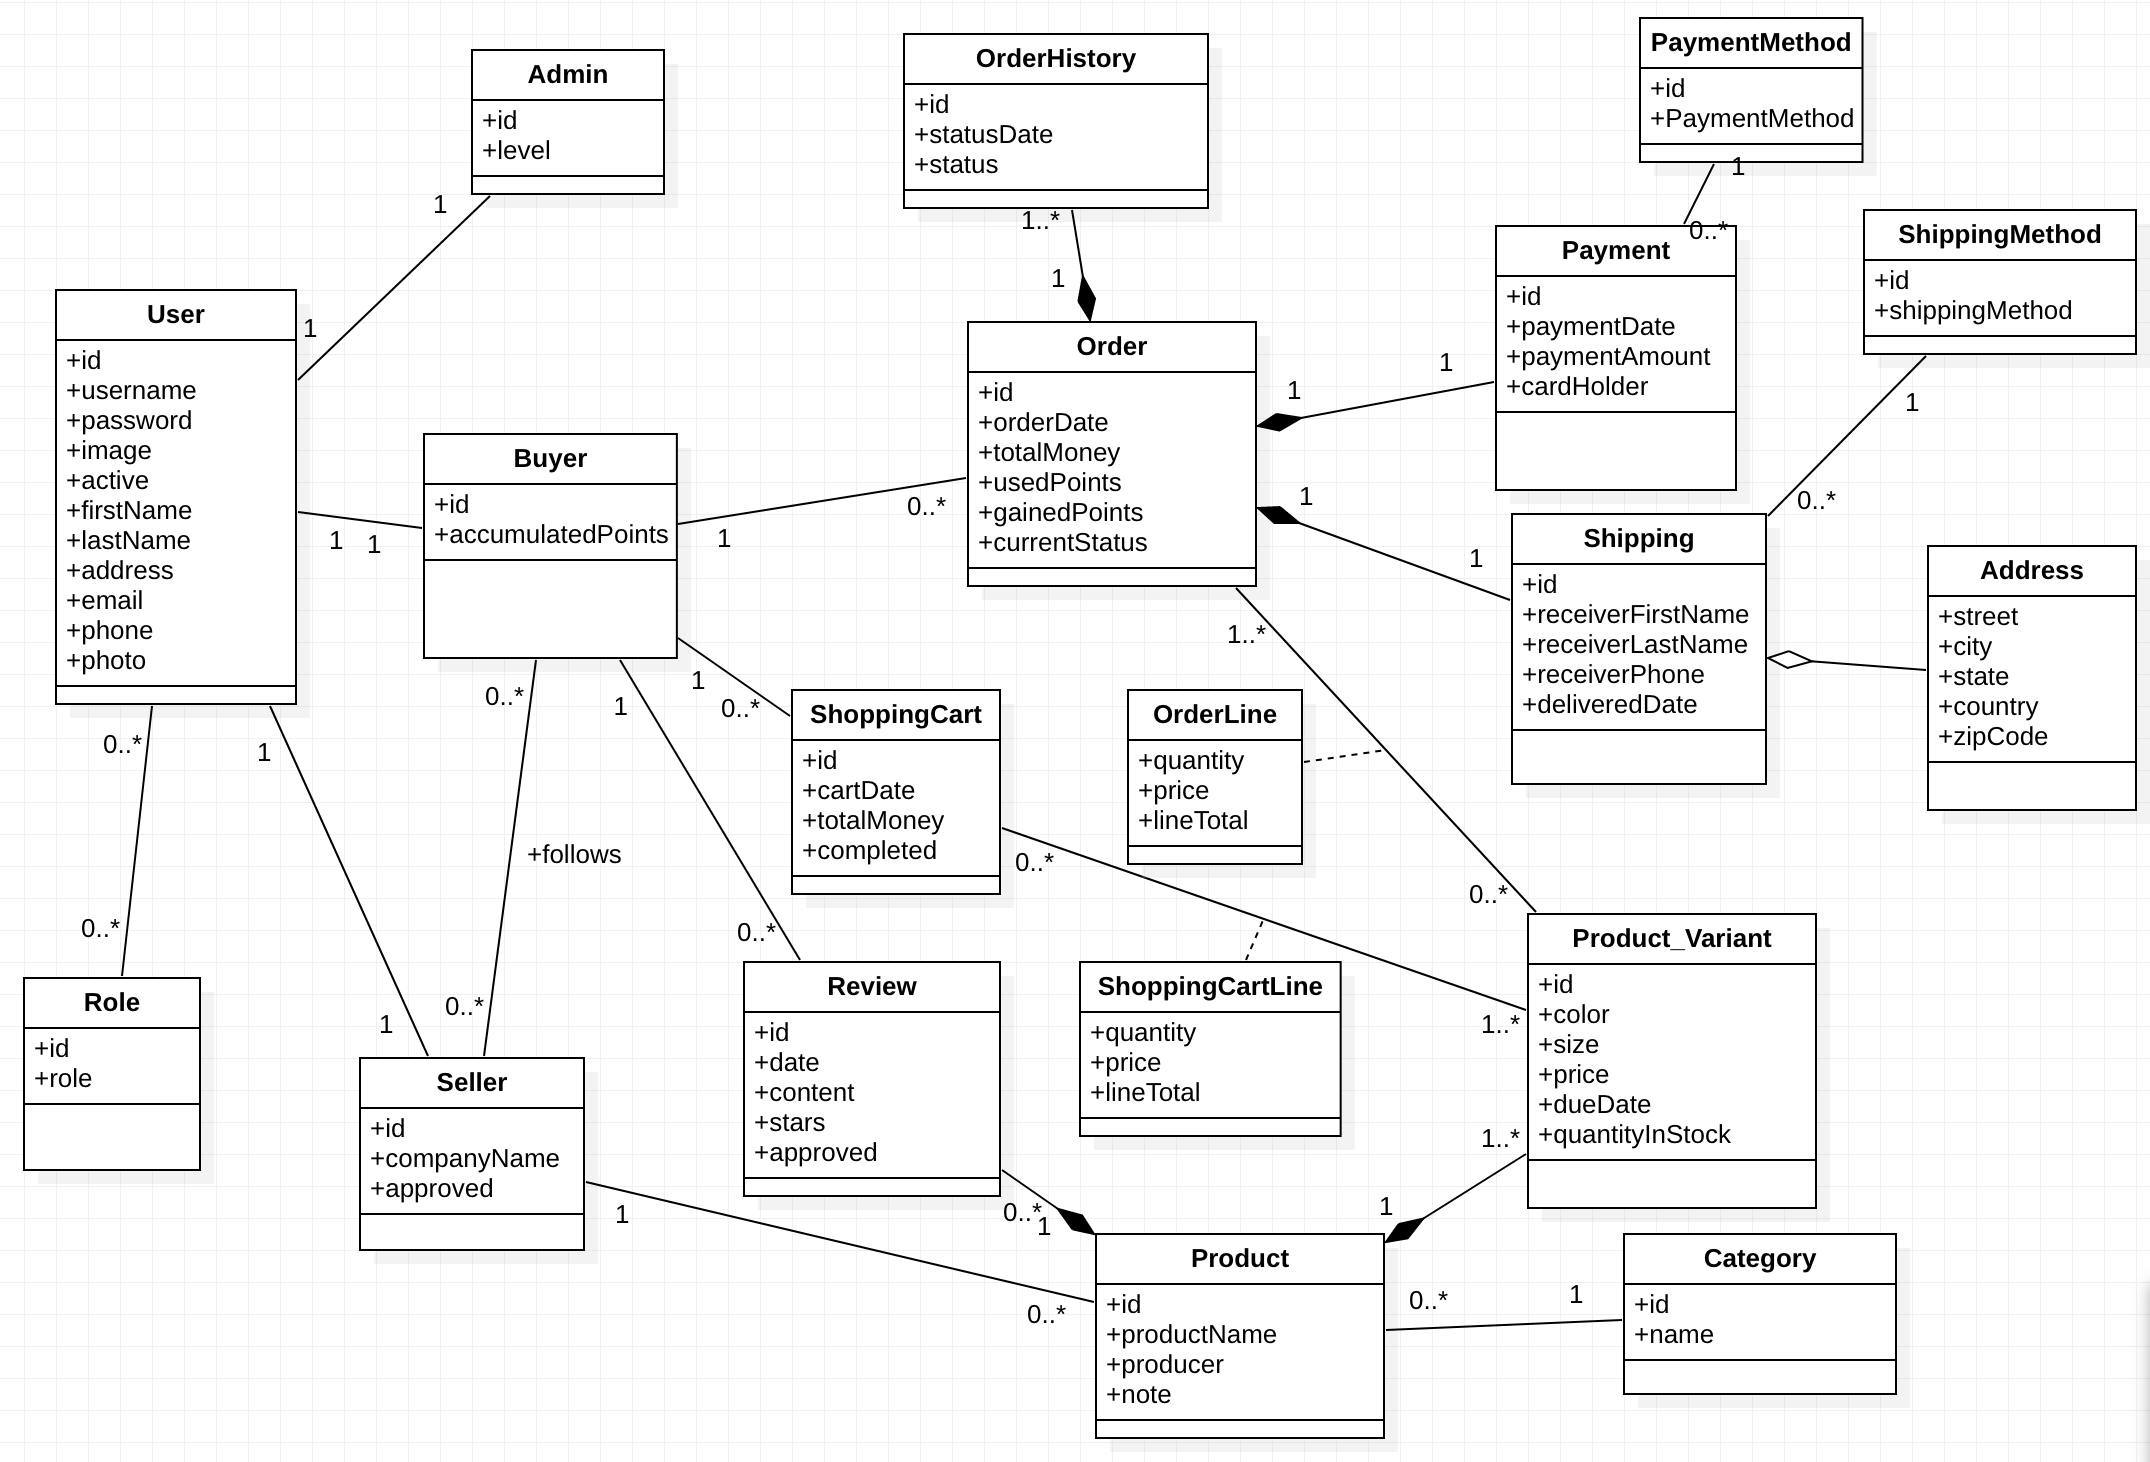
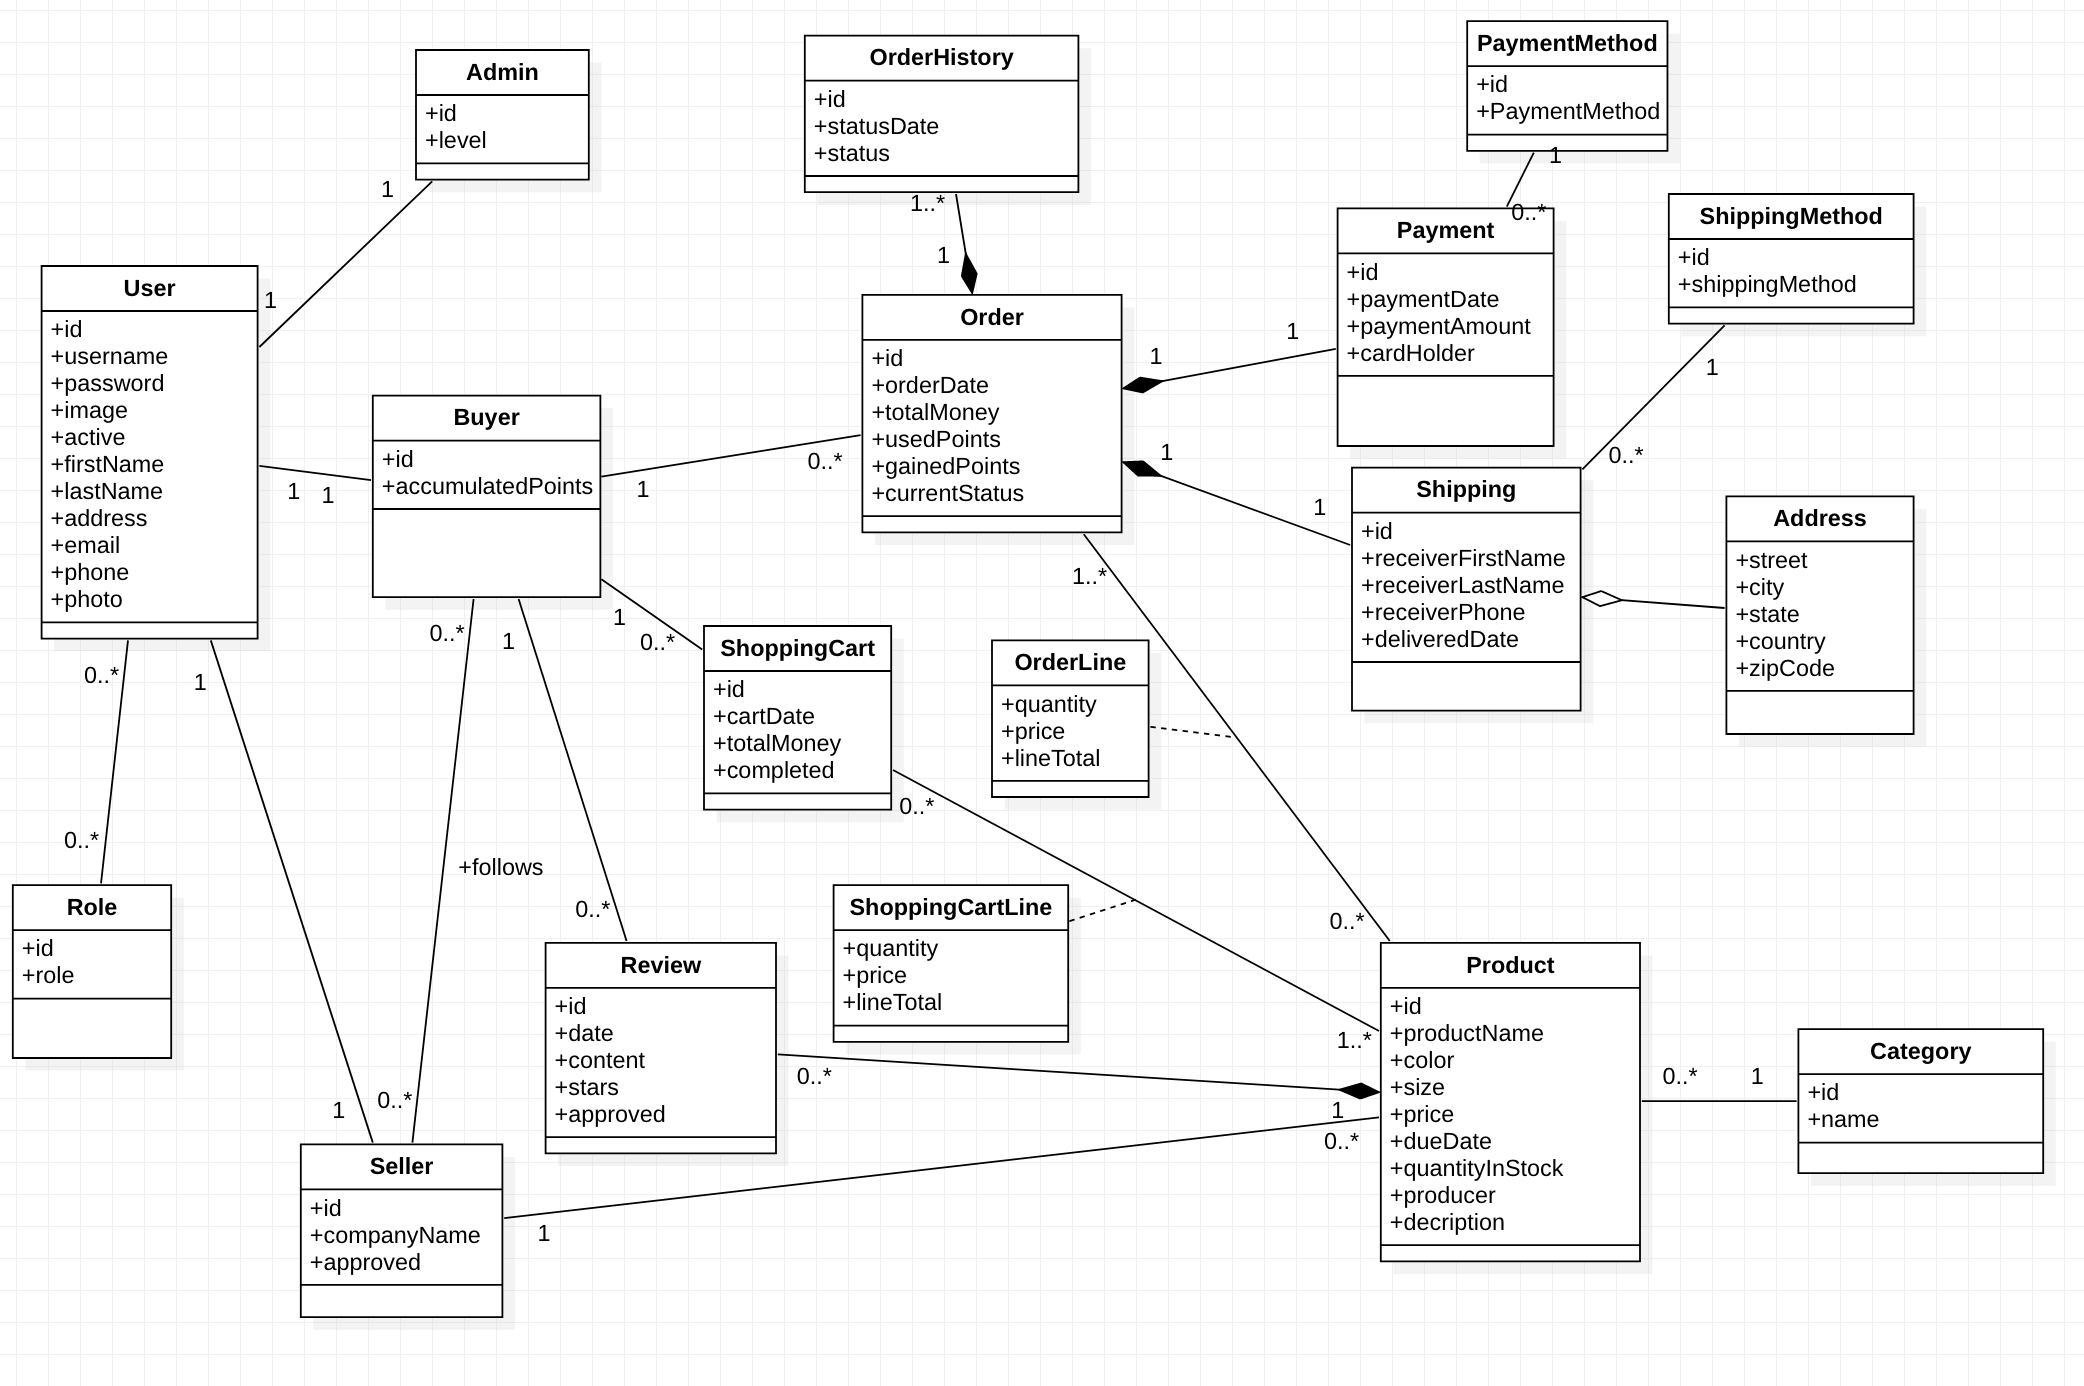
Updated domain classes

diff --git a/FinalProject/eCommerce/src/main/java/miu/edu/ecommerce/domain/Product.java b/FinalProject/eCommerce/src/main/java/miu/edu/ecommerce/domain/Product.java
@@ -6,6 +6,7 @@ import lombok.NoArgsConstructor;
 
 import javax.persistence.*;
 import java.io.Serializable;
+import java.time.LocalDate;
 import java.util.ArrayList;
 import java.util.List;
 
@@ -28,18 +29,30 @@ public class Product implements Serializable {
     @Column(name = "producer")
     private String producer;
 
-    @Column(name = "note", length=500)
-    private String note;
+    @Column(name = "desciption", length=500)
+    private String desciption;
+
+    @Column(name = "color")
+    private String color;
+
+    @Column(name = "size", length=5)
+    private String size;
+
+    @Column(name = "price" )
+    private Double price;
+
+    @Column(name = "due_date")
+    private LocalDate dueDate;
+
+    @Column(name = "quantity_in_stock")
+    private int quantityInStock;
+
+    @OneToMany(mappedBy="product")
+    private List<Review> reviews = new ArrayList();
 
     @ManyToOne(cascade = CascadeType.ALL, fetch = FetchType.EAGER)
     @JoinColumn(name="category_id")
     Category category;
-
-    @OneToMany(mappedBy="product")
-    private List<ProductVariant> productVariants = new ArrayList();
-
-    @OneToMany(mappedBy="product")
-    private List<Review> reviews = new ArrayList();
 
 
 }

diff --git a/FinalProject/eCommerce/src/main/java/miu/edu/ecommerce/domain/ShoppingCartLine.java b/FinalProject/eCommerce/src/main/java/miu/edu/ecommerce/domain/ShoppingCartLine.java
@@ -34,10 +34,7 @@ public class ShoppingCartLine implements Serializable {
     ShoppingCart cart;
 
     @ManyToOne(cascade = CascadeType.ALL, fetch = FetchType.EAGER)
-    @JoinColumn(name="product_variant_id")
-    ProductVariant productVariant;
+    @JoinColumn(name="product_id")
+    Product product;
 
-//    @ManyToMany(cascade = CascadeType.ALL, fetch = FetchType.EAGER)
-//    @JoinTable(name = "shoppingcart_detail", joinColumns = @JoinColumn(name = "shopping_id", nullable = false), inverseJoinColumns = @JoinColumn(name = "product_variant_id", nullable = false))
-//    private Set<ProductVariant> productVariantSet;
 }

diff --git a/FinalProject/eCommerce/src/main/java/miu/edu/ecommerce/domain/ShoppingCart.java b/FinalProject/eCommerce/src/main/java/miu/edu/ecommerce/domain/ShoppingCart.java
@@ -40,7 +40,4 @@ public class ShoppingCart implements Serializable {
     @JoinColumn(name="buyer_id")
     Buyer buyer;
 
-//    @ManyToMany(cascade = CascadeType.ALL, fetch = FetchType.EAGER)
-//    @JoinTable(name = "shoppingcart_detail", joinColumns = @JoinColumn(name = "shopping_id", nullable = false), inverseJoinColumns = @JoinColumn(name = "product_variant_id", nullable = false))
-//    private Set<ProductVariant> productVariantSet;
 }

diff --git a/FinalProject/eCommerce/src/main/java/miu/edu/ecommerce/domain/OrderLine.java b/FinalProject/eCommerce/src/main/java/miu/edu/ecommerce/domain/OrderLine.java
@@ -34,7 +34,7 @@ public class OrderLine implements Serializable {
     Order order;
 
     @ManyToOne(cascade = CascadeType.ALL, fetch = FetchType.EAGER)
-    @JoinColumn(name="product_variant_id")
-    ProductVariant productVariant;
+    @JoinColumn(name="product_id")
+    Product product;
 
 }
